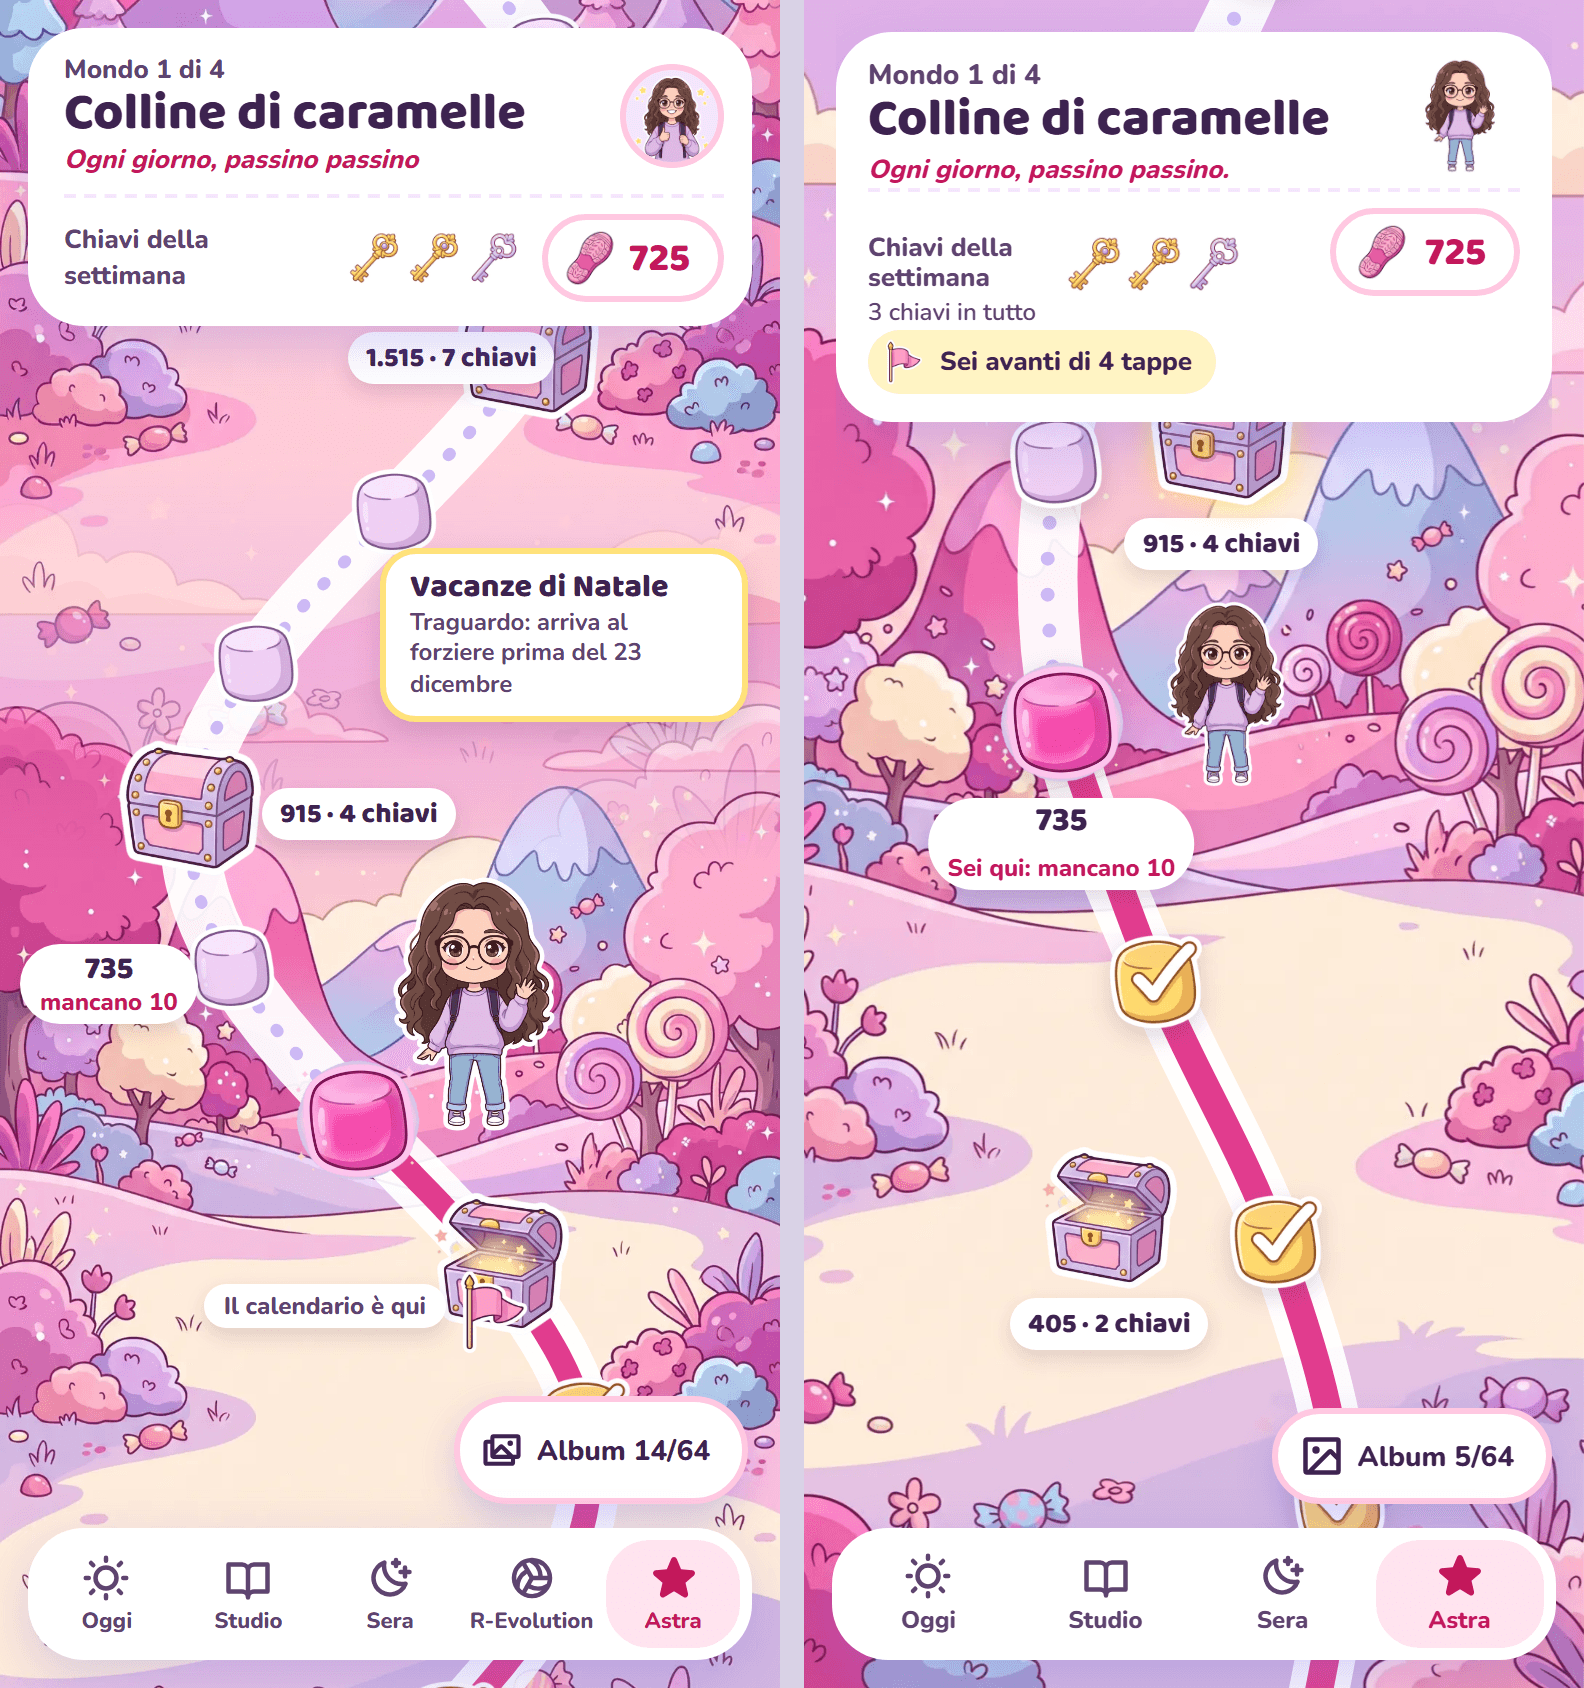
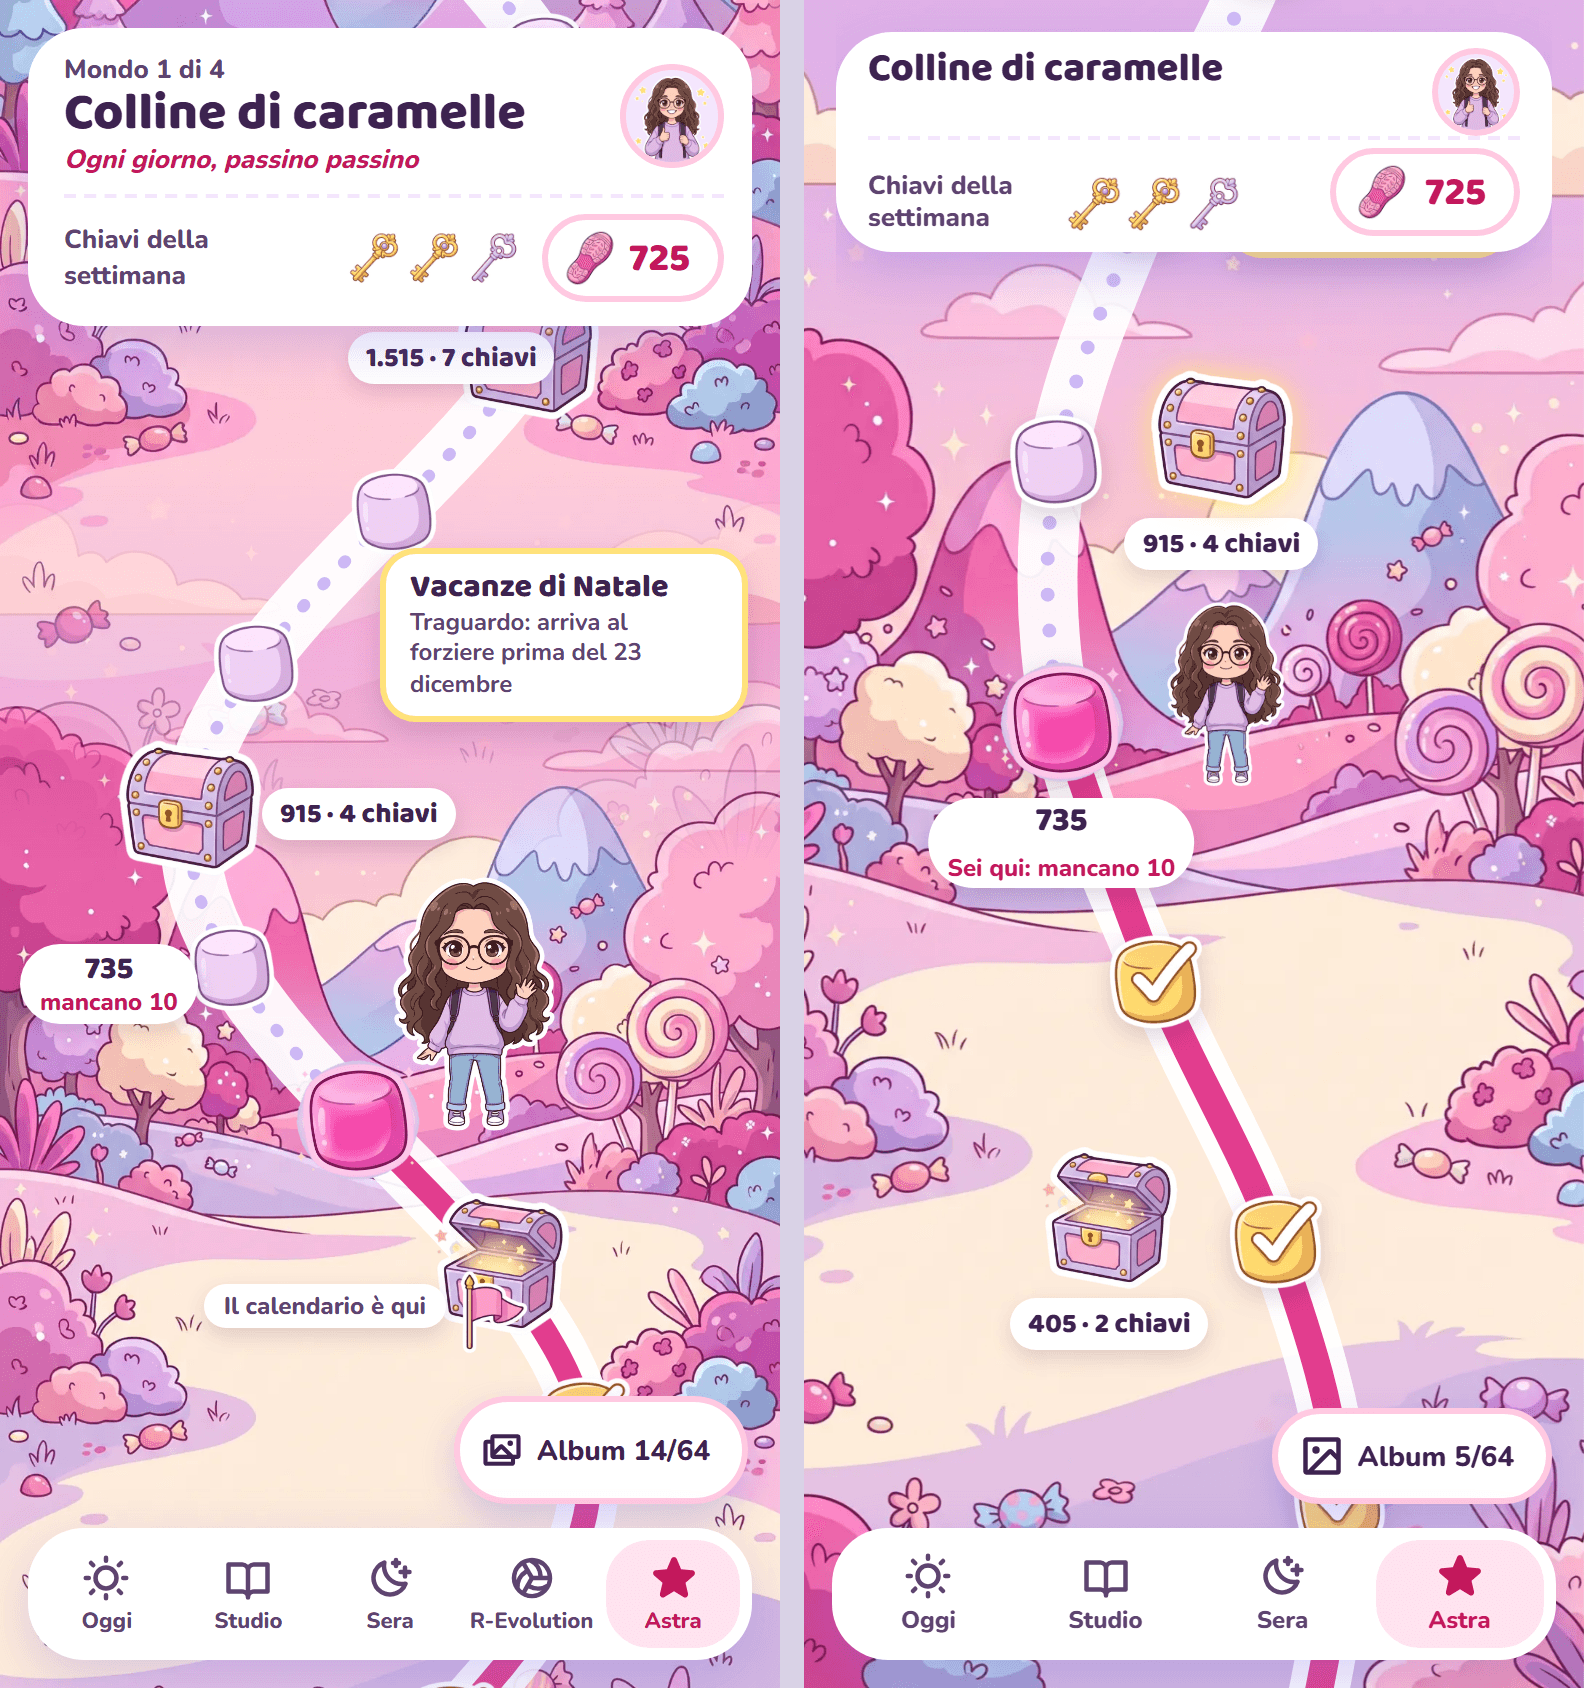
Revisione UI 10 (Astra): testata che si compatta, figurina nel cerchio
- scendendo nella mappa la testata fissa si compatta (titolo a 20 px,
  niente motto, sopratitolo e chip della bandierina): a 360 px passa da
  circa 210 a circa 110 px; prova nuova
- figurina della testata come ritratto di Lani contenta nel cerchio
  lilla, come la bozza
- 'chiavi in tutto' a 13 px

Changed region(s): [[0.5259, 0.0308, 0.9899, 0.2773]]

diff --git a/src/Astra.tsx b/src/Astra.tsx
@@ -86,6 +86,7 @@ export default function Astra({ apri }: { apri: (pagina: 'Figurina' | 'Album') =
 
   return (
     <section className="astra">
+      <Compatta />
       <div className="astra-sfondo" style={{ backgroundImage: `url(${img('sfondi', mondo.sfondo)})` }} aria-hidden />
       <header className="carta astra-testata">
         <div className="astra-titolo">
@@ -95,7 +96,7 @@ export default function Astra({ apri }: { apri: (pagina: 'Figurina' | 'Album') =
             <p className="mantra">Ogni giorno, passino passino.</p>
           </span>
           <button className="astra-figurina" onClick={() => apri('Figurina')} aria-label="La tua figurina">
-            <img src={img('avatar/lani', 'lani-saluta')} alt="" width={64} height={64} />
+            <img src={img('avatar/lani', 'lani-contenta')} alt="" width={50} height={50} />
           </button>
         </div>
         <div className="astra-saldi">
@@ -284,4 +285,18 @@ function SchedaForziere({ f, n, passi, chiavi, chiudi }: { f?: Forziere; n: numb
       <button className="secondario" onClick={chiudi}>Torna al percorso</button>
     </section>
   );
+}
+
+/** Scendendo nella mappa la testata fissa si compatta (a 360 px prendeva più di un quarto dello schermo). */
+function Compatta() {
+  useEffect(() => {
+    const segna = () => document.body.classList.toggle('astra-scesa', window.scrollY > 48);
+    segna();
+    window.addEventListener('scroll', segna, { passive: true });
+    return () => {
+      window.removeEventListener('scroll', segna);
+      document.body.classList.remove('astra-scesa');
+    };
+  }, []);
+  return null;
 }

diff --git a/e2e/astra.e2e.ts b/e2e/astra.e2e.ts
@@ -33,6 +33,8 @@ test('percorso: sei qui, forzieri, bandierina, chiavi della settimana', async ({
   await page.goto('/');
   await page.getByRole('button', { name: 'Astra' }).click();
   await expect(page.getByText('Colline di caramelle')).toBeVisible();
+  // Astra scende da sola fino a "Sei qui" e la testata si compatta: in cima il motto c'è
+  await page.evaluate(() => window.scrollTo(0, 0));
   await expect(page.getByText('Ogni giorno, passino passino.')).toBeVisible();
   await expect(page.getByText('300 passi')).toBeAttached();
   await expect(page.getByText('1 chiave', { exact: true })).toBeAttached();
@@ -106,3 +108,19 @@ for (const passi of [0, 130, 300, 420, 700, 950, 1600, 2300, 3100, 5000, 7000]) 
     }
   });
 }
+
+test('a 360 px la testata si compatta quando si scende', async ({ page }) => {
+  await page.setViewportSize({ width: 360, height: 740 });
+  await page.clock.setFixedTime(new Date('2026-11-10T16:00:00+01:00'));
+  await finto(page, dati(1600));
+  await page.goto('/');
+  await page.getByRole('button', { name: 'Astra' }).click();
+  await page.waitForTimeout(500); // Astra scende da sola fino a Sei qui
+  await page.evaluate(() => window.scrollTo(0, 0));
+  await expect(page.locator('body')).not.toHaveClass(/astra-scesa/);
+  const alta = (await page.locator('.astra-testata').boundingBox())!.height;
+  await page.evaluate(() => window.scrollTo(0, 600));
+  await expect(page.locator('body')).toHaveClass(/astra-scesa/);
+  const bassa = (await page.locator('.astra-testata').boundingBox())!.height;
+  expect(bassa).toBeLessThan(alta - 40);
+});

diff --git a/src/stile.css b/src/stile.css
@@ -516,3 +516,15 @@ dialog.velo:focus { outline: none; }
 /* Flash card: carta più bassa con risposte corte, chip dei secondi col suo stile (prima prendeva quello delle pastiglie) */
 .carta.flash { min-height: 320px; }
 .carta.flash .chip { min-height: 0; padding: 4px 12px; font: 800 12px Nunito, sans-serif; color: var(--testo-2); cursor: default; }
+
+/* Astra: figurina come ritratto nel cerchio (bozza Main), testata che si compatta scendendo */
+.astra-figurina { width: 52px; height: 52px; border-radius: 50%; background: var(--lilla); border: 3px solid var(--rosa-bordo); overflow: hidden; display: flex; align-items: center; justify-content: center; }
+.astra-figurina img { width: 50px; height: 50px; margin-top: 8px; }
+.astra-chiavi-totali { font-size: 13px !important; }
+.astra-scesa .astra-testata { padding: 8px 16px; gap: 4px; }
+.astra-scesa .astra-testata .mantra, .astra-scesa .astra-testata .sopratitolo, .astra-scesa .astra-chiavi-totali, .astra-scesa .chip-bandiera { display: none; }
+.astra-scesa .astra-titolo h1 { font-size: 20px; }
+.astra-scesa .astra-figurina { width: 44px; height: 44px; }
+.astra-scesa .astra-figurina img { width: 42px; height: 42px; margin-top: 6px; }
+.astra-scesa .astra-saldi { padding-top: 4px; }
+@media (prefers-reduced-motion: no-preference) { .astra-testata { transition: padding 0.2s ease-out; } }
